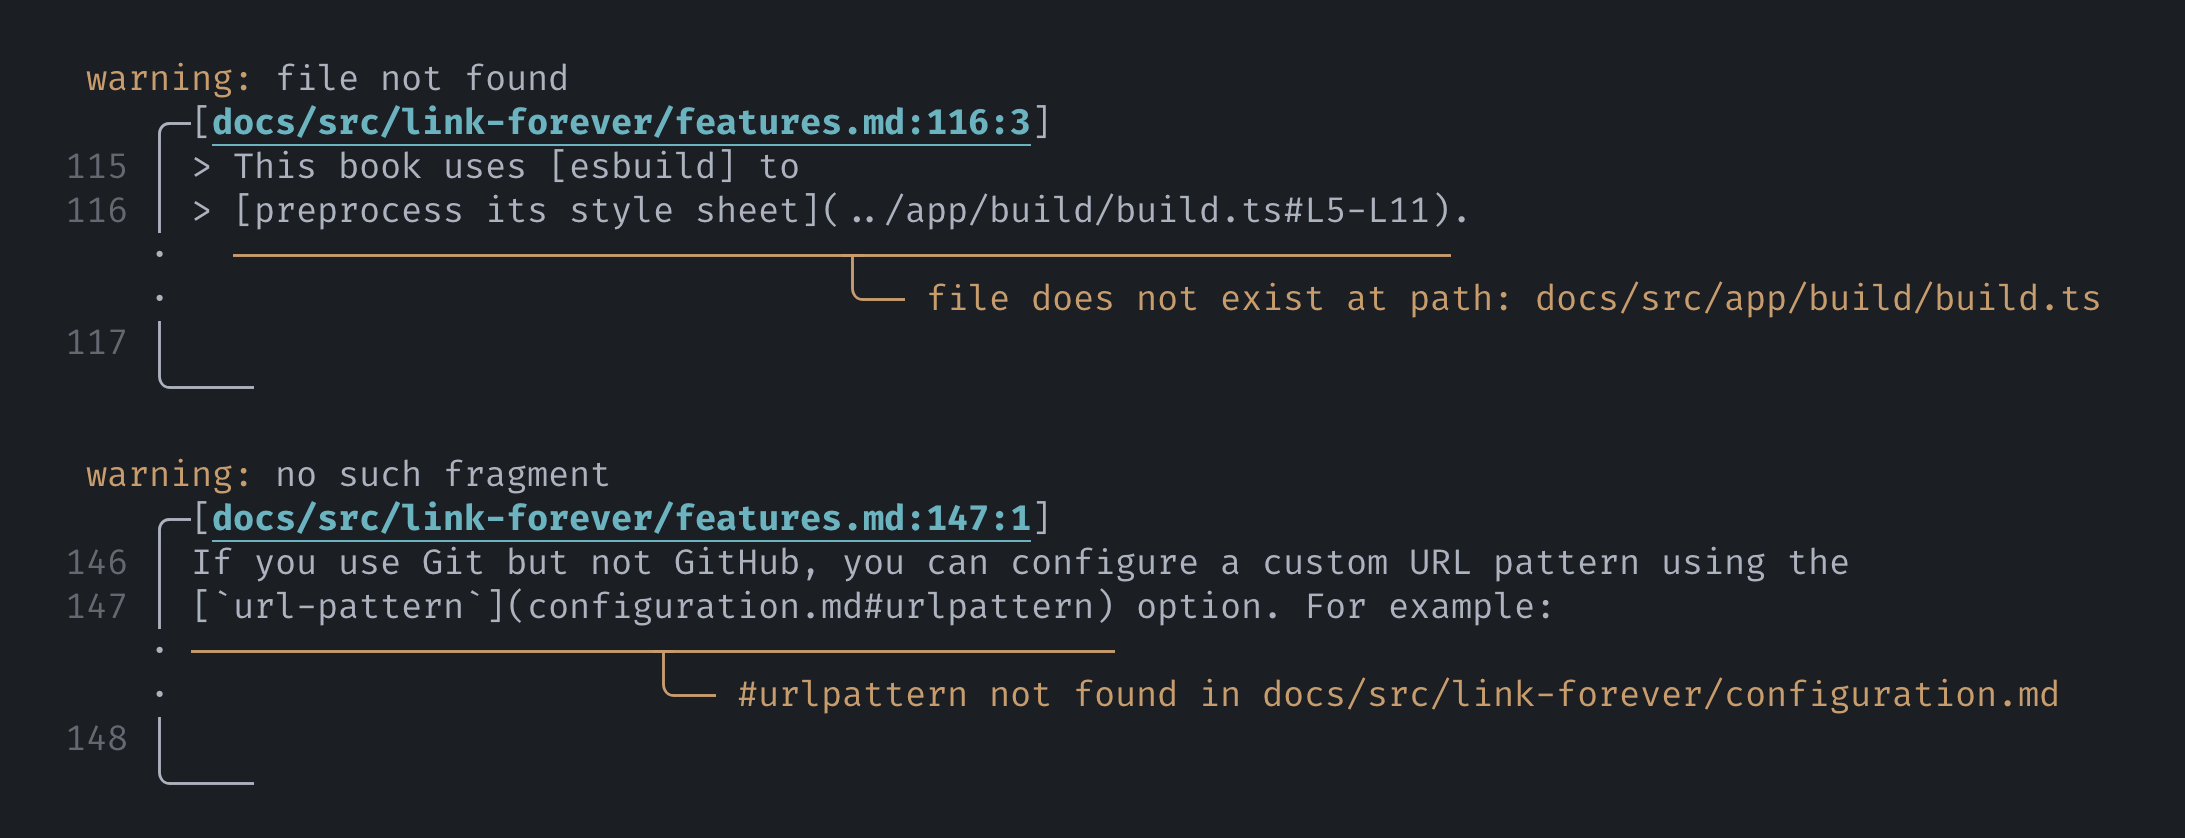
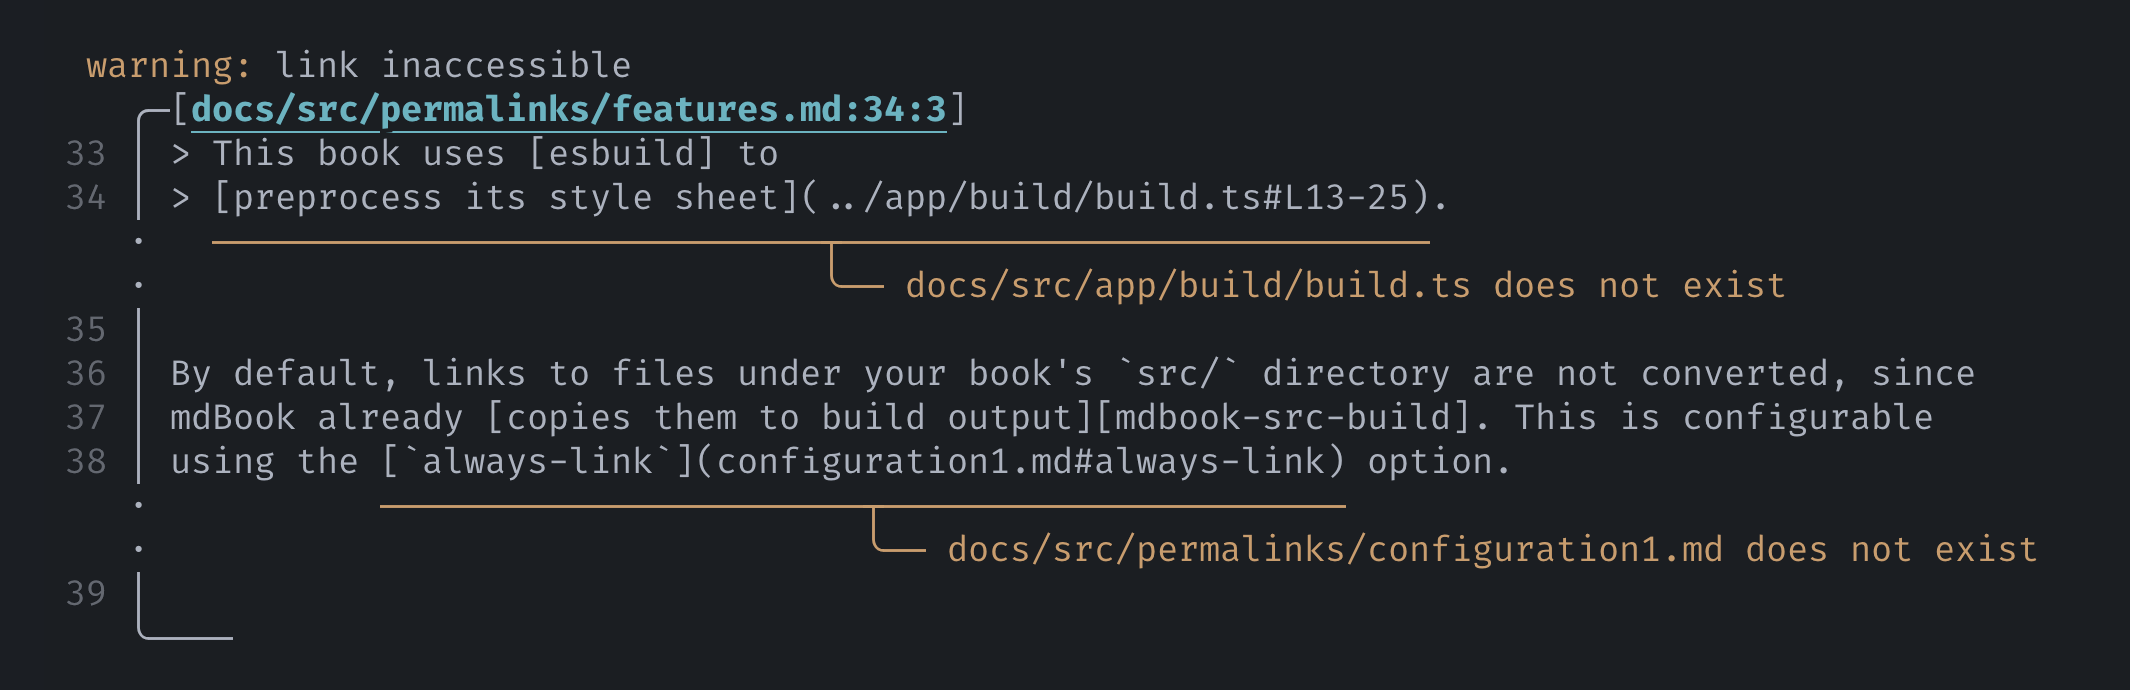
docs: update images

diff --git a/crates/mdbook-permalinks/src/page.rs b/crates/mdbook-permalinks/src/page.rs
@@ -106,10 +106,10 @@ impl<'a> Pages<'a> {
         }
 
         info!(
-            "Processed {total}: {permalink}; {rewritten}; {unreachable}; {unchanged}",
+            "Processed {total}: {permalink} to repo; {rewritten} to book; {unreachable}; {unchanged}",
             total = plural!(total, "link"),
-            permalink = plural!(permalink, "permalink"),
-            rewritten = plural!(rewritten, "book link"),
+            permalink = plural!(permalink, "link"),
+            rewritten = plural!(rewritten, "link"),
             unreachable = plural!(unreachable, "inaccessible path"),
             unchanged = plural!(unchanged + ignored + error, "unchanged", "unchanged"),
         );

diff --git a/crates/mdbook-rustdoc-links/src/client.rs b/crates/mdbook-rustdoc-links/src/client.rs
@@ -253,7 +253,7 @@ impl Server {
         let (sender, receiver) = mpsc::channel(16);
 
         let debounce = Debouncing {
-            debounce: Duration::from_millis(500),
+            debounce: Duration::from_millis(300),
             timeout: env.config.rust_analyzer_timeout(),
             receiver,
         }

diff --git a/README.md b/README.md
@@ -1,5 +1,3 @@
-[![mdbookkit hero image](/docs/src/media/banner.webp)](https://tonywu6.github.io/mdbookkit/)
-
 # mdbookkit
 
 Quality-of-life plugins for your [mdBook] project.
@@ -13,9 +11,7 @@ Quality-of-life plugins for your [mdBook] project.
 
 </div>
 
-## Quick access
-
-### [mdbook-rustdoc-links](https://tonywu6.github.io/mdbookkit/rustdoc-links)
+## [mdbook-rustdoc-links](https://tonywu6.github.io/mdbookkit/rustdoc-links)
 
 Link to Rust API docs by name, [_rustdoc_-style][rustdoc].
 
@@ -32,7 +28,7 @@ Link to Rust API docs by name, [_rustdoc_-style][rustdoc].
 cargo install mdbook-rustdoc-links
 ```
 
-### [mdbook-permalinks](https://tonywu6.github.io/mdbookkit/permalinks)
+## [mdbook-permalinks](https://tonywu6.github.io/mdbookkit/permalinks)
 
 Link to files in your Git repository using paths.
 

diff --git a/docs/src/rustdoc-links/logging.md b/docs/src/rustdoc-links/logging.md
@@ -7,6 +7,30 @@ preprocessor emits logs and diagnostic information.
 
 {{#include ../snippets/logging/output-style.md}}
 
+<figure>
+
+![miette warnings](media/diagnostics-graphical.png)
+
+<figcaption>
+
+Diagnostics are displayed in a graphical manner by default.
+
+</figcaption>
+
+</figure>
+
+<figure>
+
+![tracing logs](media/diagnostics-tracing.png)
+
+<figcaption>
+
+The same diagnostics emitted as logs
+
+</figcaption>
+
+</figure>
+
 ## `MDBOOK_LOG`
 
 {{#include ../snippets/logging/env-var.md}}

diff --git a/docs/src/permalinks/logging.md b/docs/src/permalinks/logging.md
@@ -7,6 +7,30 @@ preprocessor emits logs and diagnostic information.
 
 {{#include ../snippets/logging/output-style.md}}
 
+<figure>
+
+![miette warnings](media/error-reporting.png)
+
+<figcaption>
+
+Diagnostics are displayed in a graphical manner by default.
+
+</figcaption>
+
+</figure>
+
+<figure>
+
+![tracing logs](media/diagnostics-tracing.png)
+
+<figcaption>
+
+The same diagnostics emitted as logs
+
+</figcaption>
+
+</figure>
+
 ## `MDBOOK_LOG`
 
 {{#include ../snippets/logging/env-var.md}}

diff --git a/crates/mdbook-permalinks/src/tests/paths.md b/crates/mdbook-permalinks/src/tests/paths.md
@@ -20,11 +20,11 @@
 
 ![](Minato_City,_Tokyo,_Japan.jpg)
 
-![](/docs/src/media/banner.webp)
+![](/docs/src/media/social.webp)
 
-[![Banner image][banner-image]][banner-image]
+[![Social image][social-image]][social-image]
 
-[banner-image]: /docs/src/media/banner.webp
+[social-image]: /docs/src/media/social.webp
 
 [![MIT/Apache-2.0 licensed](https://img.shields.io/crates/l/mdbookkit?style=flat-square)](/LICENSE-APACHE.md)
 

diff --git a/docs/src/permalinks/more-ways-to-link.md b/docs/src/permalinks/more-ways-to-link.md
@@ -117,12 +117,6 @@ file path is accessible:
   processes it as usual).
 - For other sites, the link remains functional and will link to your book's website.
 
-<figure>
-
-![warnings emitted for broken canonical links](media/error-reporting-canonical-urls.png)
-
-</figure>
-
 <!-- prettier-ignore-start -->
 
 [mdbook-include]: https://rust-lang.github.io/mdBook/format/mdbook.html#including-files

diff --git a/docs/src/rustdoc-links/known-issues.md b/docs/src/rustdoc-links/known-issues.md
@@ -87,7 +87,7 @@ When the preprocessor fails to resolve some items, it emits warnings that look l
 
 <figure>
 
-![warning emitted that has the wrong line numbers](media/error-reporting-wrong-line.png)
+![emitted warning](media/error-reporting.png)
 
 </figure>
 

diff --git a/TODO.md b/TODO.md
@@ -7,10 +7,10 @@
   - [x] mdbookkit
   - [x] link check
 
-- [ ] images
-  - [ ] permalinks
-  - [ ] rustdoc-links
-  - [ ] mdbookkit
+- [x] images
+  - [x] permalinks
+  - [x] rustdoc-links
+  - [x] mdbookkit
 
 - [ ] package metadata
   - [ ] permalinks
